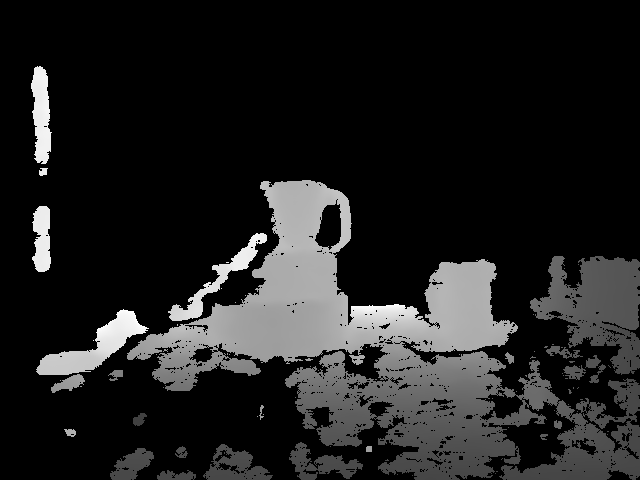
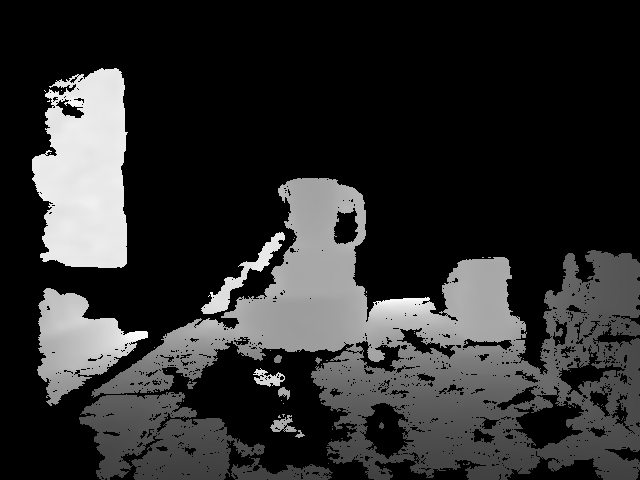
made python_realsense to c++

Changed region(s): [[0.0625, 0.375, 1.0, 1.0], [0.0312, 0.125, 0.2188, 0.5625], [0.4688, 0.3438, 0.5, 0.375]]

diff --git a/convert.cpp b/convert.cpp
@@ -1,4 +1,6 @@
 #include "convert.hpp"
+#include"Angle_estimate_pixel.cpp"
+
 std::string type2str(int type) { 
     std::string r; 
 
@@ -28,20 +30,51 @@ void init_converter(){
     //std::ifstream ifs("mat_numpy.py");
     std::ifstream ifs(pyfile);
     std::ifstream ifs_mat(matTonumpy_file);
+    std::ifstream ifs_pyRealsense(pyRealsense_file);
     script_dex=std::string((std::istreambuf_iterator<char>(ifs)),
                         std::istreambuf_iterator<char>());
     script_mat=std::string((std::istreambuf_iterator<char>(ifs_mat)),
                         std::istreambuf_iterator<char>());
+    script_pyRealsense=std::string((std::istreambuf_iterator<char>(ifs_pyRealsense)),
+                        std::istreambuf_iterator<char>());
+
+
+}
+void showDexResult(){
+    printf("filestorage will open\n");
+    cv::FileStorage fs;
+    fs.open(y_file, cv::FileStorage::READ);
+    
+    if(!fs.isOpened())
+        {
+            printf("Failed to open file dexresult\n");
+            return ;
+        }
+
+    double q,lean,depth,point_x,point_y;
+    fs["q_value"]>>q;
+    fs["lean"]>>lean;
+    fs["depth"]>>depth;
+    fs["point_x"]>>point_x;
+    fs["point_y"]>>point_y;
+    // double q= double(fs["q_value"]);
+    // double lean= double(fs["lean"]);
+    // double depth= double(fs["depth"]);
+    // double point_x= double(fs["point_x"]);
+    // double point_y= double(fs["point_y"]);
+    printf("q_value:%lf\n",q);
+    printf("lean:%lf\n",lean);
+    printf("depth:%lf\n",depth);
+    printf("point_x:%lf\n",point_x);
+    printf("point_y:%lf\n",point_y);
+
 
 }
 
-bool convertToPython(cv::Mat depth){
-    std::ifstream ifs(pyfile);
-    std::ifstream ifs_mat(matTonumpy_file);
-    script_dex=std::string((std::istreambuf_iterator<char>(ifs)),
-                        std::istreambuf_iterator<char>());
-    script_mat=std::string((std::istreambuf_iterator<char>(ifs_mat)),
-                        std::istreambuf_iterator<char>());
+
+//bool convertToPython(){
+int main(){
+    init_converter();    
     //assert(!depth.empty());
     printf("now_convert1\n");
      //Python、numpyモジュールの初期化
@@ -53,53 +86,59 @@ bool convertToPython(cv::Mat depth){
     printf("now_convert2\n");
     //for the convertion cv::Mat depth to depth.npy
     
-    int width = depth.cols;
-    int height = depth.rows;
-    //100x100行列の準備
-    boost::python::tuple shapeA = boost::python::make_tuple(height,width);
-
-    np::ndarray A = np::zeros(shapeA, np::dtype::get_builtin<float>());
-    
-    int channels = depth.channels();
-    for(int i=0; i != height; i++) {
-        int step=i*width;
-        for(int j=0; j != width; j++) {
-            int elm=j*depth.elemSize();
-            A[i][j] = (float)depth.data[step+elm];
-        }
-    }
     
     //mat_numpy.mulの実行
-    boost::python::exec(script_mat.c_str(),main_ns);
+    boost::python::exec(script_pyRealsense.c_str(),main_ns);
     printf("now_convert2.5\n");
    // auto func = main_ns["matConvertToNumpy"];
     printf("now_convert2.8\n");
     //std::cout<<func(A) <<std::endl;
-    auto func = main_ns["matConvertToNumpy"];
+    auto func = main_ns["use_realsense_py"];
     //
-    auto pyresult=func(A);
+    auto pyresult=func();
     //printf("pyresult:%lf\n",pyresult);
 
     //結果の受け取り
     //stl_input_iteratorを使ってタプル全要素を受け取る
     printf("now3\n");
     
-#if 0 //CONFIRM_IMAGES
-        boost::python::stl_input_iterator<np::ndarray> begin(pyresult_numpy), end;
+#if 1 //CONFIRM_IMAGES
+        boost::python::stl_input_iterator<np::ndarray> begin(pyresult), end;
         std::list<np::ndarray> pyresult_list(begin, end);
-        cv::Mat received(600,800,CV_8UC1);
+        
+        cv::Mat received(480,640,CV_8UC3);
     for(auto itr = pyresult_list.begin(); itr != pyresult_list.end(); ++itr) {
         unsigned char *p = reinterpret_cast<unsigned char *>((*itr).get_data());
         //double *p = reinterpret_cast<double *>((*itr).get_data());
         //ndarrayでは基本的にメモリは連続領域上に保持されるので、
         //各要素には[]演算子を使ってアクセスできる
-        int HEIGHT=600;
-        int WIDTH=800;
-        for(int i=0;i<HEIGHT;i++){
-            for(int k=0;k<WIDTH;k++){
-                received.data[i*WIDTH+k]=p[i*WIDTH+k];
+        int HEIGHT=480;
+        int WIDTH=640;
+        // for(int i=0;i<HEIGHT;i++){
+        //     for(int k=0;k<WIDTH;k++){
+        //         for(int c=0;c<3;c++){
+        //         received.data[i*WIDTH+k]=p[i*WIDTH+k];
+        //         }
+        //     }
+        // }
+        int width = received.cols;
+        int height = received.rows;
+        int channels = received.channels();
+        printf("receive_frame:cols  %d  rows %d  channel %d\n",width,height,channels);
+        for(int j=0; j<height; j++)
+        {
+            int step = j*width*channels;
+            for(int i=0; i<width; i++)
+            {
+                int elm = i*channels;
+
+                for(int c=0; c<channels; c++)
+                {
+                    received.data[step+elm+ c] = p[step+elm+c];
+                }
             }
         }
+        break;
     }
         printf("returened\n");
         
@@ -108,12 +147,14 @@ bool convertToPython(cv::Mat depth){
         //std::cout<<"depth_type: "<<depth.type()<<std::endl;
         
         
-        cv::imshow("returned_disp",received);
+        cv::imshow("returned_color",received);
         cv::waitKey(-1);
-        std::ostringstream depth;
-        depth<<"/home/kawahara/dex-net-withoutdocker/gqcnn/data/examples/single_object/primesense/depth_"<<dexcnt<<".npy";
-        cv::imwrite(depth.str(),received);
+        // std::ostringstream depth;
+        // depth<<"/home/kawahara/dex-net-withoutdocker/gqcnn/data/examples/single_object/primesense/depth_"<<dexcnt<<".npy";
+        // cv::imwrite(depth.str(),received);
 #endif
-        printf("now4\n");    
+    boost::python::exec(script_dex.c_str(),main_ns);
+
+    printf("now4\n");    
     return true;
 }

diff --git a/use_intelRealsense/PyRealsense.py b/use_intelRealsense/PyRealsense.py
@@ -1,0 +1,105 @@
+## License: Apache 2.0. See LICENSE file in root directory.
+## Copyright(c) 2015-2017 Intel Corporation. All Rights Reserved.
+
+###############################################
+##      Open CV and Numpy integration        ##
+###############################################
+
+import pyrealsense2 as rs
+import numpy as np
+import cv2
+
+def use_realsense_py():
+    WIDTH = 640
+    HEIGHT = 480
+    FPS = 60
+    THRESHOLD = 0.80  # これより遠い距離の画素を無視する
+    #ここでスケールがかわっているので、あとで*THRESHOLDする
+    # Configure depth and color streams
+    pipeline = rs.pipeline()
+    config = rs.config()
+    #config.enable_stream(rs.stream.depth, 640, 480, rs.format.z16, 30)
+    config.enable_stream(rs.stream.depth, 640, 480, rs.format.z16, 30)
+    config.enable_stream(rs.stream.color, 640, 480, rs.format.bgr8, 30)
+
+    # Start streaming
+    profile=pipeline.start(config)
+    depth_scale = profile.get_device().first_depth_sensor().get_depth_scale()
+    max_dist = THRESHOLD/depth_scale
+    cnt=0
+    show_result=False
+    try:
+        #while True:
+        for i in range(1,200):
+        # Wait for a coherent pair of frames: depth and color
+            frames = pipeline.wait_for_frames()
+            depth_frame = frames.get_depth_frame()
+            color_frame = frames.get_color_frame()
+            #if not depth_frame or not color_frame:
+                #continue
+            # RGB画像
+            color_image = np.asanyarray(color_frame.get_data())
+            
+            # 指定距離以上を無視した深度画像
+            depth_image = np.asanyarray(depth_frame.get_data())
+            depth_filtered_image = (depth_image < max_dist) * depth_image
+            depth_gray_filtered_image = (depth_filtered_image * 255. / max_dist).reshape((HEIGHT, WIDTH)).astype(np.uint8)
+            #cv2.imwrite("depth_gray_filtered_image.png",depth_gray_filtered_image)
+            #cv2.imshow("gray_filtered_depth_uint",depth_gray_filtered_image)
+            depth_gray_filtered_image =np.float64(depth_gray_filtered_image)
+            #scale をここでもとに戻す
+            depth_gray_filtered_image_float=depth_gray_filtered_image*THRESHOLD/255.0
+            
+            #np.save("./dexInput/clear_depth_images",depth_gray_filtered_image_float)
+            
+            black = np.zeros((HEIGHT,WIDTH), np.uint8)
+            left_, right_, top_, bottom_ = [260, 355, 160, 255]
+            img2 = depth_gray_filtered_image[top_ : bottom_, left_: right_]
+
+            black[top_ : bottom_, left_: right_]=img2
+            #cv2.imwrite("out_sample2.jpg", img2)
+            ret,black= cv2.threshold(black,0,255,cv2.THRESH_BINARY)
+            if 0:#show depth results
+                cv2.imshow("black",black)
+                cv2.imshow("gray_filtered_depth_float",depth_gray_filtered_image_float)
+
+            #cv2.imwrite("./dexInput/Psagemask.png",black)
+            # 指定距離以上を無視したRGB画像
+            color_filtered_image = (depth_filtered_image.reshape((HEIGHT, WIDTH, 1)) > 0) * color_image
+
+            
+            
+            color_image = np.asanyarray(color_frame.get_data())
+            #cv2.imshow('Realsense',depth_image)
+            depth_gray_filtered_image= cv2.rectangle(depth_gray_filtered_image,(left_,top_),(right_,bottom_),(255),2)
+            #cv2.imshow("disparity",depth_gray_filtered_image)
+            # Apply colormap on depth image (image must be converted to 8-bit per pixel first)
+            depth_colormap = cv2.applyColorMap(cv2.convertScaleAbs(depth_image, alpha=0.03), cv2.COLORMAP_JET)
+            #depth_colormap = cv2.applyColorMap(cv2.convertScaleAbs(depth_image, alpha=1.00), cv2.COLORMAP_JET)
+
+            # Stack both images horizontally
+            images = np.hstack((color_image, depth_colormap))
+
+            # Show images
+            #cv2.namedWindow('RealSense', cv2.WINDOW_AUTOSIZE)
+            if 0:
+                cv2.imshow('depth_color',depth_colormap)
+                cv2.imshow('color',color_image)
+                np.save('Pydepth',depth_image)
+            #if i==99:
+            #    cv2.waitKey()
+            #if key =='q':
+            #    break
+
+    finally:
+    # Stop streaming
+        pipeline.stop()
+    if 0:#when debug Realsense RGB get
+        print(color_image.dtype)
+        print(color_image.ndim)
+        print(color_image.shape)
+        cv2.imshow("ret",color_image)
+        cv2.waitKey()
+    return color_image
+#if __name__=='__main__':
+#    use_realsense_py()

diff --git a/use_intelRealsense/realsense_sample_show.cpp b/use_intelRealsense/realsense_sample_show.cpp
@@ -4,6 +4,11 @@
 #include <librealsense2/rs.hpp> // Include RealSense Cross Platform API
 #include <opencv2/opencv.hpp>   // Include OpenCV API
 #include "../convert.cpp"
+
+const int WIDTH = 640;
+const int HEIGHT = 480;
+const int FPS = 60;
+const double THRESHOLD = 0.80;  //これより遠い距離の画素を無視する
 int main(int argc, char * argv[]) try
 {
     // Declare depth colorizer for pretty visualization of depth data
@@ -12,8 +17,9 @@ int main(int argc, char * argv[]) try
     // Declare RealSense pipeline, encapsulating the actual device and sensors
     rs2::pipeline pipe;
     // Start streaming with default recommended configuration
-    pipe.start();
-
+    rs2::pipeline_profile profile=pipe.start();
+    double depth_scale=profile.get_device().query_sensors().get_depth_scale();
+    double max_dist=THRESHOLD/
     using namespace cv;
     const auto window_name = "Display Image";
     namedWindow(window_name, WINDOW_AUTOSIZE);

diff --git a/main_camera_input.cpp b/main_camera_input.cpp
@@ -70,16 +70,14 @@ void Display()
         //cv::rotate(frame[0],frame[0],ROTATE_90_COUNTERCLOCKWISE);
         //cv::rotate(frame[1],frame[1],ROTATE_90_COUNTERCLOCKWISE);
         cv::imshow(window[0], frame[0]);
-        //cv::imshow(window[1], frame[1]);
+      
          int Key=cv::waitKey(1);
         if(Key=='q')break;
         
         if(cnt%300==0){
              //left,right
-            //getDepthImage(frame[0],frame[1]); //call dex-net  in display thread
-            //if(dexnet_thread.joinable())dexnet_thread.join();
-            //if(dexnet_thread.joinable())dexnet_thread.join();
-            dexnet_thread=std::thread(getDepthImage,frame[0],frame[1]);
+            
+            dexnet_thread=std::thread();
             dexnet_thread.detach();
             //dexnet_thread.detach();
             //std::thread DEX(getDepthImage,frame[1],frame[0]);

diff --git a/main_camera_input.hpp b/main_camera_input.hpp
@@ -14,9 +14,9 @@
 #endif
 static CameraDevices camerasDevices;
 
-#include"stereomatch.cpp"
-#include"Angle_estimate_pixel.cpp"
-#define output_angles 0
+//#include"stereomatch.cpp"
+#include"convert.cpp"
+#define output_angles 0 //推定角度をグラフ出力するかどうか
 
 #if output_angles
 #include"matplotlib-cpp-starter/matplotlibcpp.h"
@@ -31,7 +31,7 @@ std::mutex mtx;
 cv::Mat cameraImage1;
 cv::Mat cameraImage2;
 cv::Mat cameraImages[2];
-const string window[2]={"left camera","right camera"};
+const std::string window[2]={"left camera","right camera"};
 cv::Mat left_img;
 cv::Mat right_img;
 

diff --git a/convert.hpp b/convert.hpp
@@ -19,7 +19,9 @@ bool convertToPython(cv::Mat depth);  //execute convertion c++ to python
 void init_converter();                //init and prepare
 std::string script_dex;
 std::string script_mat;
+std::string script_pyRealsense;
 const std::string pyfile="/home/kawahara/dex-net-withoutdocker/gqcnn/examples/policy.py";
 const std::string matTonumpy_file="/home/kawahara/programs/image_input/mat_numpy.py";
+const std::string pyRealsense_file="/home/kawahara/programs/image_input/use_intelRealsense/PyRealsense.py";
 std::string y_file = "/home/kawahara/programs/image_input/dex_result/results.yaml";
 
